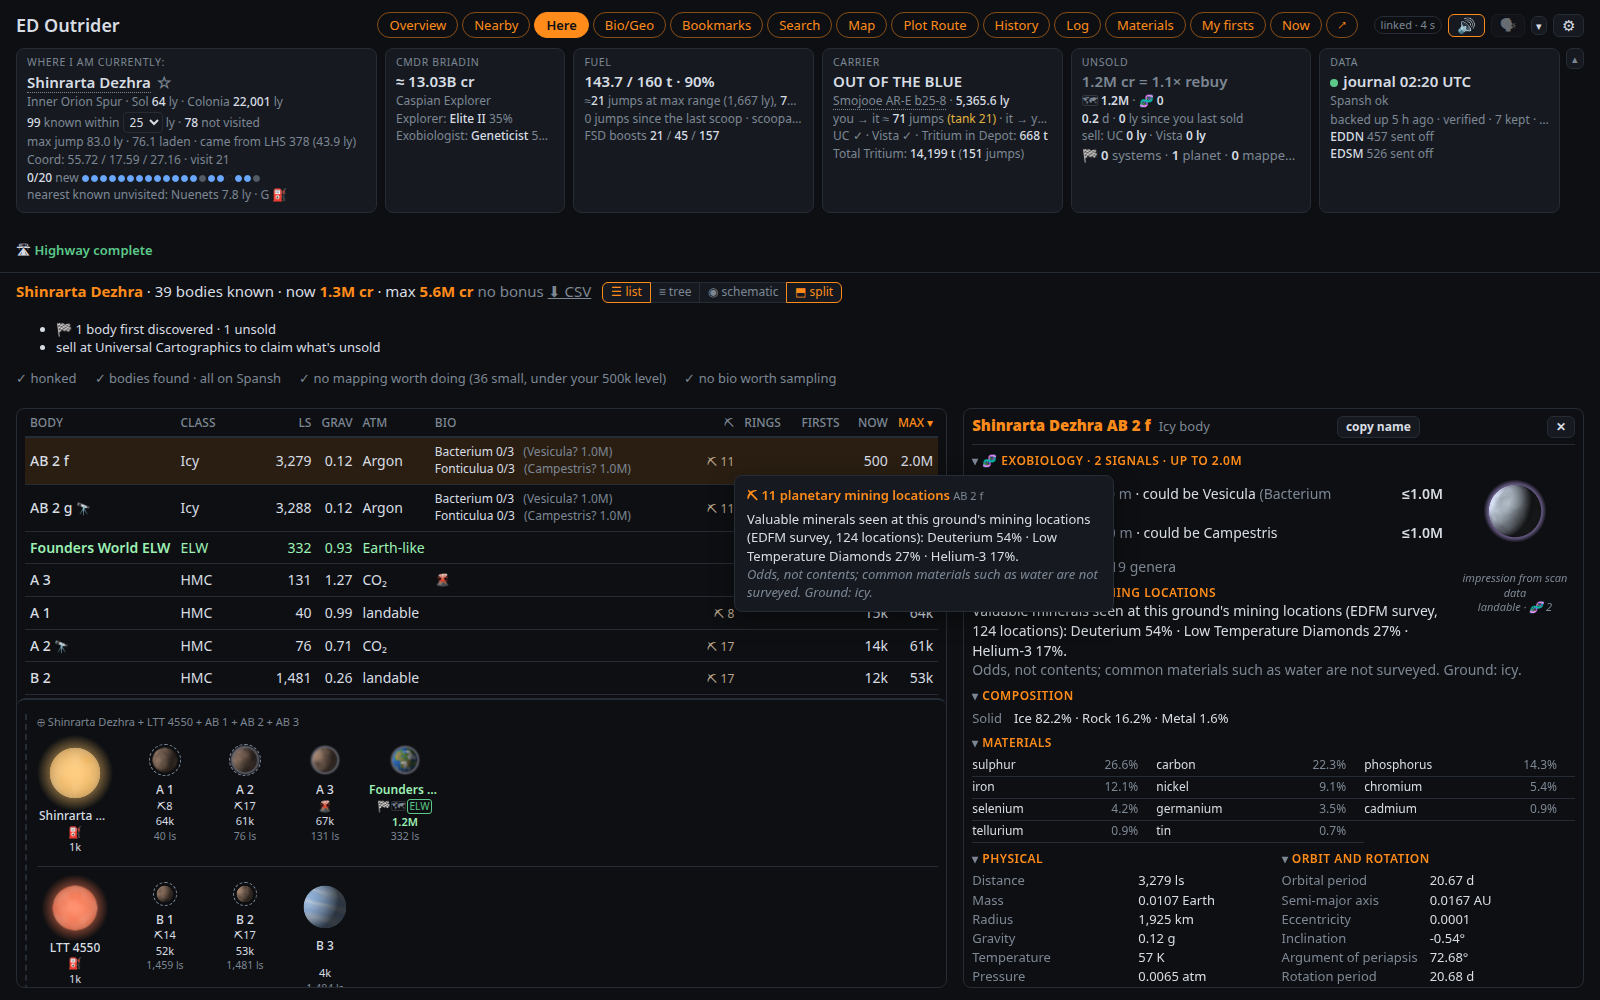
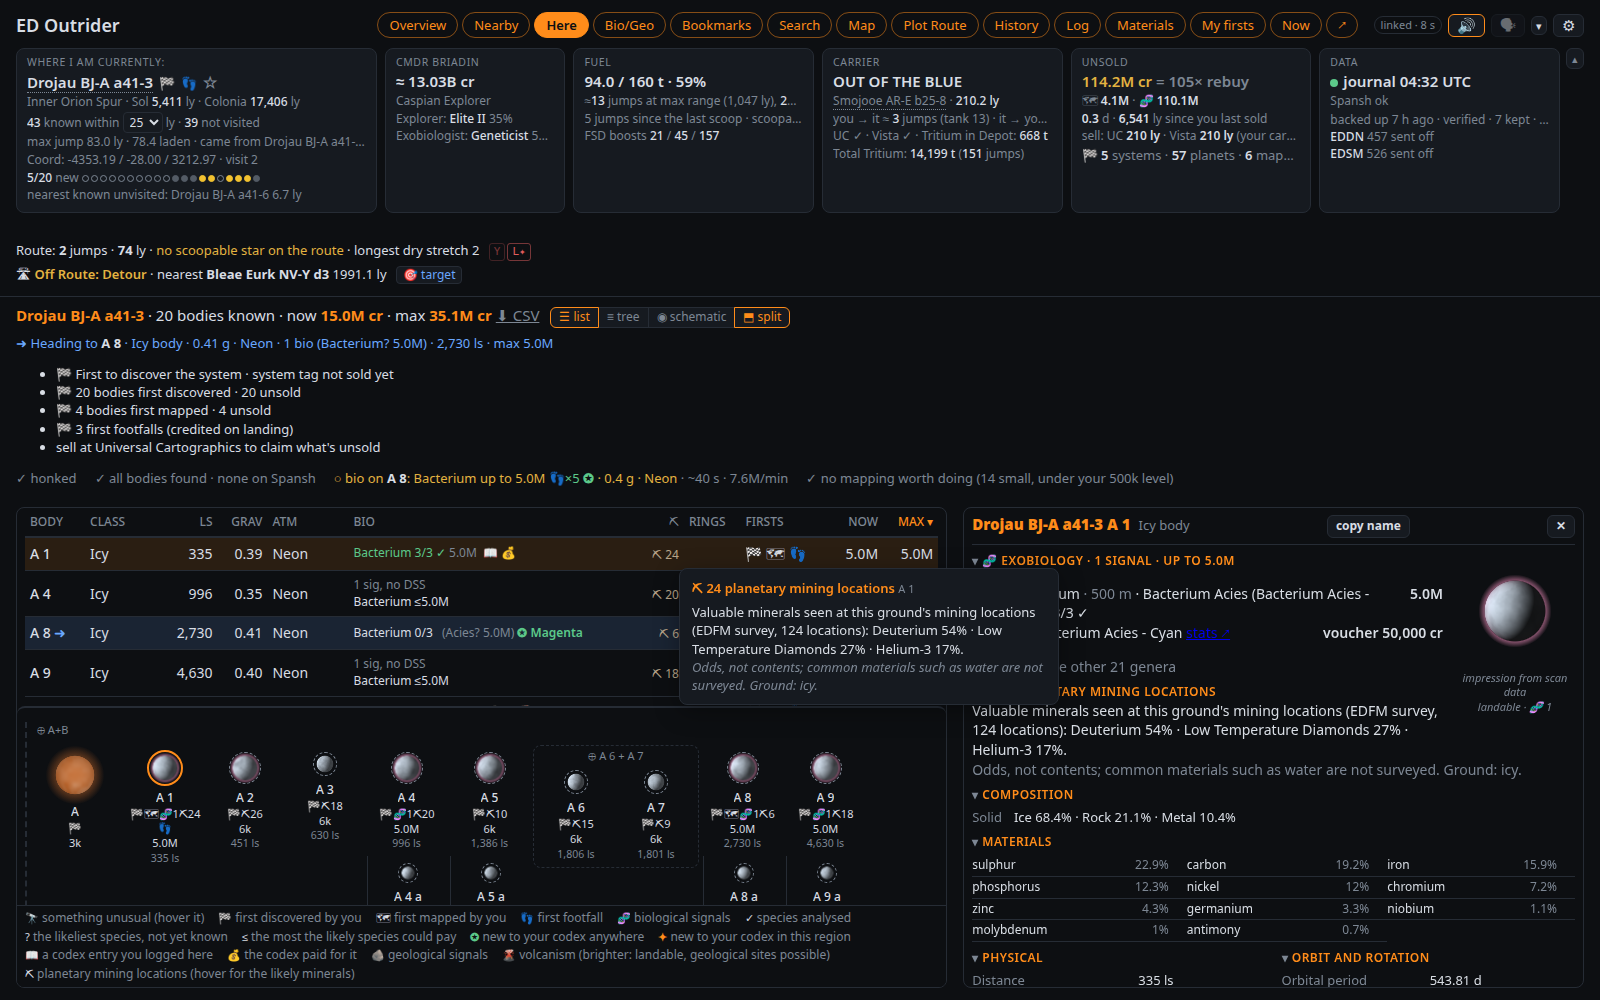
Docs: the latest changes in the notes, screenshots with the Here legend

diff --git a/docs/AGENT_GUIDE.md b/docs/AGENT_GUIDE.md
@@ -48,7 +48,8 @@ it is switched on for) and `edmc_uploads` (EDMC's config.toml on this PC). In `e
 | `outrider/tts.py` | Piper synthesis (`Speaker`; `body_letters` turns a body name's letters into Piper's raw phonemes, `LETTER_SOUNDS`, for an English voice: `_synth` and the voice lab), voice downloads (into `data/piper-voices/`), Piper's catalogue (`fetch_catalogue`, cached a week; `catalogue_summary` for GET `/api/voices/catalogue` and Settings → Voice → More voices; the voice lab reads the same copy), and playing lines/sounds on the PC (`LinePlayer`); `SoundBank` (the alert sounds, with your own `<name>.wav` from `[speech] sound_dir`, WAV only, up to `SOUND_FILE_MAX_S` 3 s), `scale_wav` (the page's per-device Volume applied to the WAV the PC's player gets) |
 | `outrider/honk.py` | Auto honk (Linux; Windows experimental): `keyboard_backend()` picks evdev on Linux, `outrider.winkeys` on Windows; reads Primary Fire's binding (`keyboard_bindings` reads any controls) and presses it through a uinput virtual keyboard (`Honker`: its `owners`, "honk", "target" and "target-test", keep it open; its `lock` is held for a whole press or auto-target sequence; `press(check, cancel)` runs `check` under the lock just before the first key (a reason raises `NotNow`, nothing pressed) and `cancel` is that feature's own token, so switching one feature off stops its run while the other keeps the device open) |
 | `outrider/winkeys.py` | Windows' stand-in for the part of evdev the key code uses: `ecodes.ecodes` (evdev key names -> scan codes, `EXTENDED` 0xE000 for extended keys), `EV_KEY`, `UInput` (`write` -> `SendInput` in scan-code mode); `SEND` is what tests replace (never reaching Windows). `set_clipboard` for `highway.Clipboard` on Windows |
-| `outrider/target.py` | The Highway's auto-target: `build_steps` (the sequence; its configurable parts are `DEFAULT_SEARCH`, `DEFAULT_SUBMIT` and `DEFAULT_PLOT`, lists of `parse_step` strings found in game, see `DESIGN_NOTES.md`), `guard` (when it must not start) / `targeted` (already the target: Status.json's `Destination.System`, or NavRoute.json ending at it for a waypoint several jumps away), `Targeter` (resolves keys from the preset and `autotarget_keys`, `run`: the step runner on honk's device and lock, aborts, a cancel token, dry run), `US_KEYMAP` (typing), `ACTIONS` (the controls it may read, galaxy map camera included) |
+| `outrider/target.py` | The Highway's auto-target: `build_steps` (the sequence; its configurable parts are `DEFAULT_SEARCH`, `DEFAULT_SUBMIT` and `DEFAULT_PLOT`, lists of `parse_step` strings found in game, see `DESIGN_NOTES.md`), `guard` (when it must not start; the game's own in-danger after an FSD use is waited out server-side:
+`State.arrival_danger_until`, from `Journals.jump_arrival` / `supercruise_entry`) / `targeted` (already the target: Status.json's `Destination.System`, or NavRoute.json ending at it for a waypoint several jumps away), `Targeter` (resolves keys from the preset and `autotarget_keys`, `run`: the step runner on honk's device and lock, aborts, a cancel token, dry run), `US_KEYMAP` (typing), `ACTIONS` (the controls it may read, galaxy map camera included) |
 | `outrider/button.py` | Co-pilot button (Linux): reads one HOTAS/keyboard button from `/dev/input`, read-only: `Gestures` ("status" a tap, "again" a double tap, "hush" a hold; `double_ms` 400), `ButtonWatch` (`on_gesture`, and `on_press` for every press as it happens). What each does is `State.copilot_gesture`: flying the ship a tap is `copilot_target` (Target next on `copilot_next`: the survey / trade route's next first, then the Highway's; a moment "autotarget" with what "nothing" or "refused" otherwise, spoken from `autotarget_nothing`), a double the status report, a hold the hush; `copilot_press` cancels a tap's run still counting down (a slow double tap) and the next tap is then the status report; the Rhino marks rigs |
 | `outrider/rail.py` | The tablet's control rail, pure: `SHORT_LABELS`/`short_label` (a small tablet's names; a player's own name is kept), `CONTEXTS` and `context_of(status, vehicle_type)`, `CATALOGUE` (each context's buttons: action, Status.json state spec, amber) and `DEFAULT_IDS` (the agreed sets), `state_of`, `check_set` (the editor's input). `State.rail_info`/`rail_press`/`rail_save`/`rail_device` and `/api/rail*` use it; `Honker.tap` presses; `keyboard_bindings(..., category=)` reads the SRV and on-foot presets |
 | `outrider/tools.py` | The AI's read-only tools, defined once: `TOOLS` (name, description, JSON-schema params, an async handler `(get, args, rows)`), `READ_ROUTES` (the GETs a handler may read; `guarded()` refuses the rest; `/api/nearest` only ever with `cached=1`, which never fetches the DSSA list), `listing()`, `call(name, args, get, rows)`, `Unavailable` -> `NOT_RUNNING` |
@@ -338,6 +339,10 @@ body, starts the job as a background task (`State.highway_task`, cancelled by cl
 never Spansh; `verify.sh` points every `SPANSH_*` URL at a closed port and sets `Clipboard.TOOLS = ()`, so a
 scratch server neither plots nor touches the desktop clipboard. Moments about the route are kind `highway`
 (`what`: next, back, off_route, complete, heavy; plain `text`, no `speech.json` keys yet), only for `live_event` arrivals.
+
+**A new icon in Here's rows or schematic.** Add a `HERE_LEGEND` entry in page.js (a test on what is shown, the icon,
+what it means); the footer lists only the icons shown, so a missing entry leaves the icon unexplained. The smoke
+test's Here check shows the pattern.
 
 **A new journal event.** Add its name to the right `*_EVENTS` tuple (or `WANTED` never lets the line through),
 handle it, decide journal-derived vs live-only, bump `PARSER_VERSION` if past journals matter, add a

diff --git a/docs/DESIGN_NOTES.md b/docs/DESIGN_NOTES.md
@@ -176,6 +176,17 @@ upstream project's choices, not rules of the game.
   TAP_S. Auto honk's miss is not held against the fire group when your own jump started during the hold or the
   wait for the scan.
   The toggle and delay are the server's (meta `autotarget`, beating the config once used), not per browser.
+  The game's own "in danger" (Status.json bit 22) is on for every FSD use, from the charge until 15-26 s after a
+  hyperspace arrival or a SupercruiseEntry (logged in game 2026-10-09). A run that meets it in that window waits for
+  it to clear (`State.arrival_danger_until`, up to `AUTOTARGET_DANGER_WAIT` = 60 s after the arrival or entry; the
+  restored position's arrival after a restart), says so once ("Not targeting due to danger ... for up to N
+  seconds") and presses nothing meanwhile; the co-pilot button's second press cancels it like the countdown.
+  Interdicted, the FSD charging, or still in danger past the minute: refused as a real danger. Once the map's close
+  key went down, an FSD charge or a jump is a success when the target is set (you set off before step 7 looked).
+- **Here's icon legend lists only what is shown.** The footer under Here's list (`HERE_LEGEND` in page.js) names the
+  icons the list or schematic shows now, not every icon there is (the author's call, 2026-10-10), and is absent when
+  there are none; sticky to the bottom of the scrolling pane so it stays in view. The codex marks write the new
+  colour after them ("✪ Cobalt"): their tooltip never shows under the body summary that pops up over a row.
 - **Too much fuel for the next jump.** Spansh's exact plotter simulates the fuel, so a long neutron jump may be in
   range only with about the fuel it expects aboard (the Caspian's 487.9 ly ×6 jump: at most about 36 t; a full 160 t
   tank gives 75.3 × 6 = 452 ly). Checked on a live arrival in a route system (or a plot made where you are) and again

diff --git a/docs/guide/settings.md b/docs/guide/settings.md
@@ -69,8 +69,9 @@ Command-line flags override the file for a single run:
   conditions, as maintained by the [BioScan](https://github.com/Silarn/EDMC-BioScan) project, including
   its check on which star types a species appears around. Until every body is found, nothing is ruled out
   on what isn't known yet. The genus is usually right, the species sometimes not, so values show as
-  "up to". The ✦ "new to your codex" mark checks the colour variant when it can be told; ✪ is a species in your
-  codex nowhere at all, worth more effort. Each start checks GitHub for newer rules. Settings → Display can
+  "up to". The ✦ "new to your codex" mark checks the colour variant when it can be told, and names it ("✦ Grey");
+  ✪ is a species or colour in your codex nowhere at all ("✪ Cobalt"), worth more effort. A Bacterium's colour
+  comes from a rare element in each body's own materials, so bodies in one system can differ. Each start checks GitHub for newer rules. Settings → Display can
   leave out of Here's bio column the species you have finished and the bodies with few signals (this device).
 - **Values are estimates** using the community tools' formula, bonuses included (the full-scan bonus too: 1,000 cr
   per body of a system you found complete while all of it was undiscovered). An NPC crew member's cut

diff --git a/docs/CHANGELOG.md b/docs/CHANGELOG.md
@@ -2,6 +2,11 @@
 
 Newest first, one entry per commit.
 
+## 2026-10-10 · Docs: the latest changes in the notes, screenshots with the Here legend
+- DESIGN_NOTES: the danger wait and the early FSD charge; the Here legend (only the icons shown) and the colour after
+  the codex marks. AGENT_GUIDE: target.py's danger wait, and a recipe for a new Here icon (its HERE_LEGEND entry).
+  Settings guide: the marks name the colour. overview, here, schematic and themes retaken (the legend).
+
 ## 2026-10-10 · Fable review fixes: the page
 - The checklist asks for every change (region, list, a scan) and draws only the newest answer: a region picked
   while an answer was on its way was dropped, the picker showing one region and the list another (#6).
